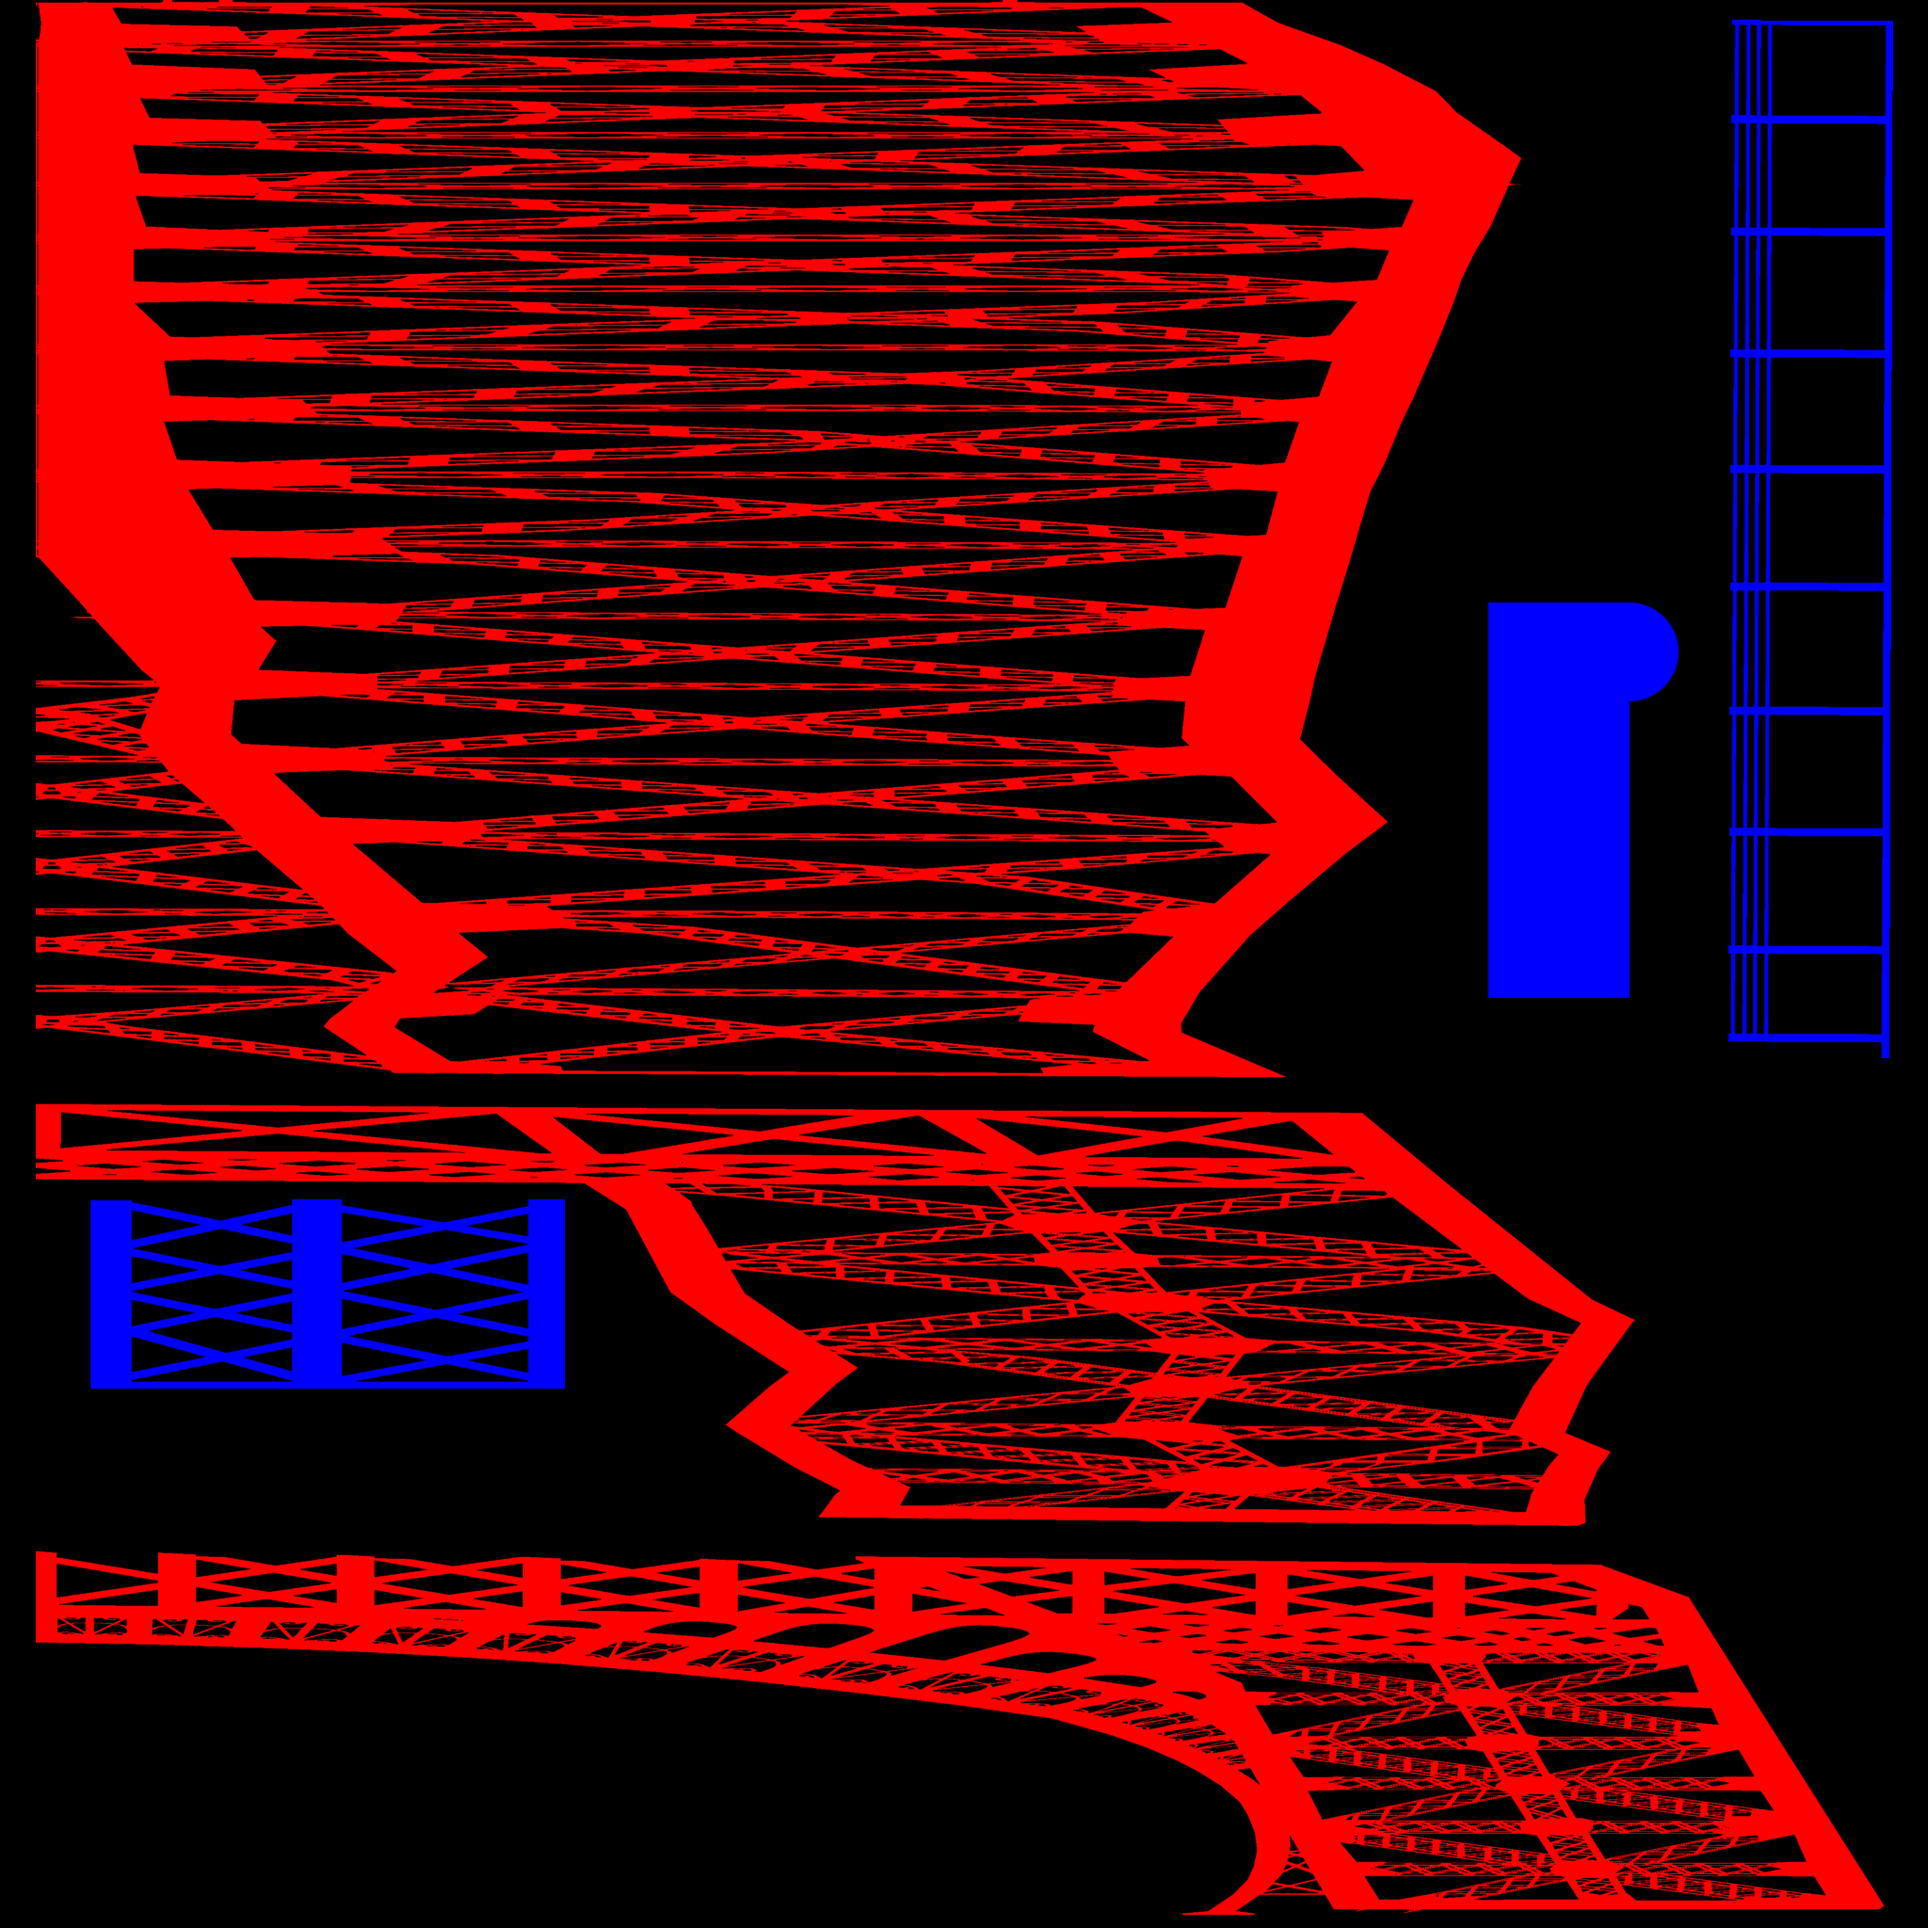
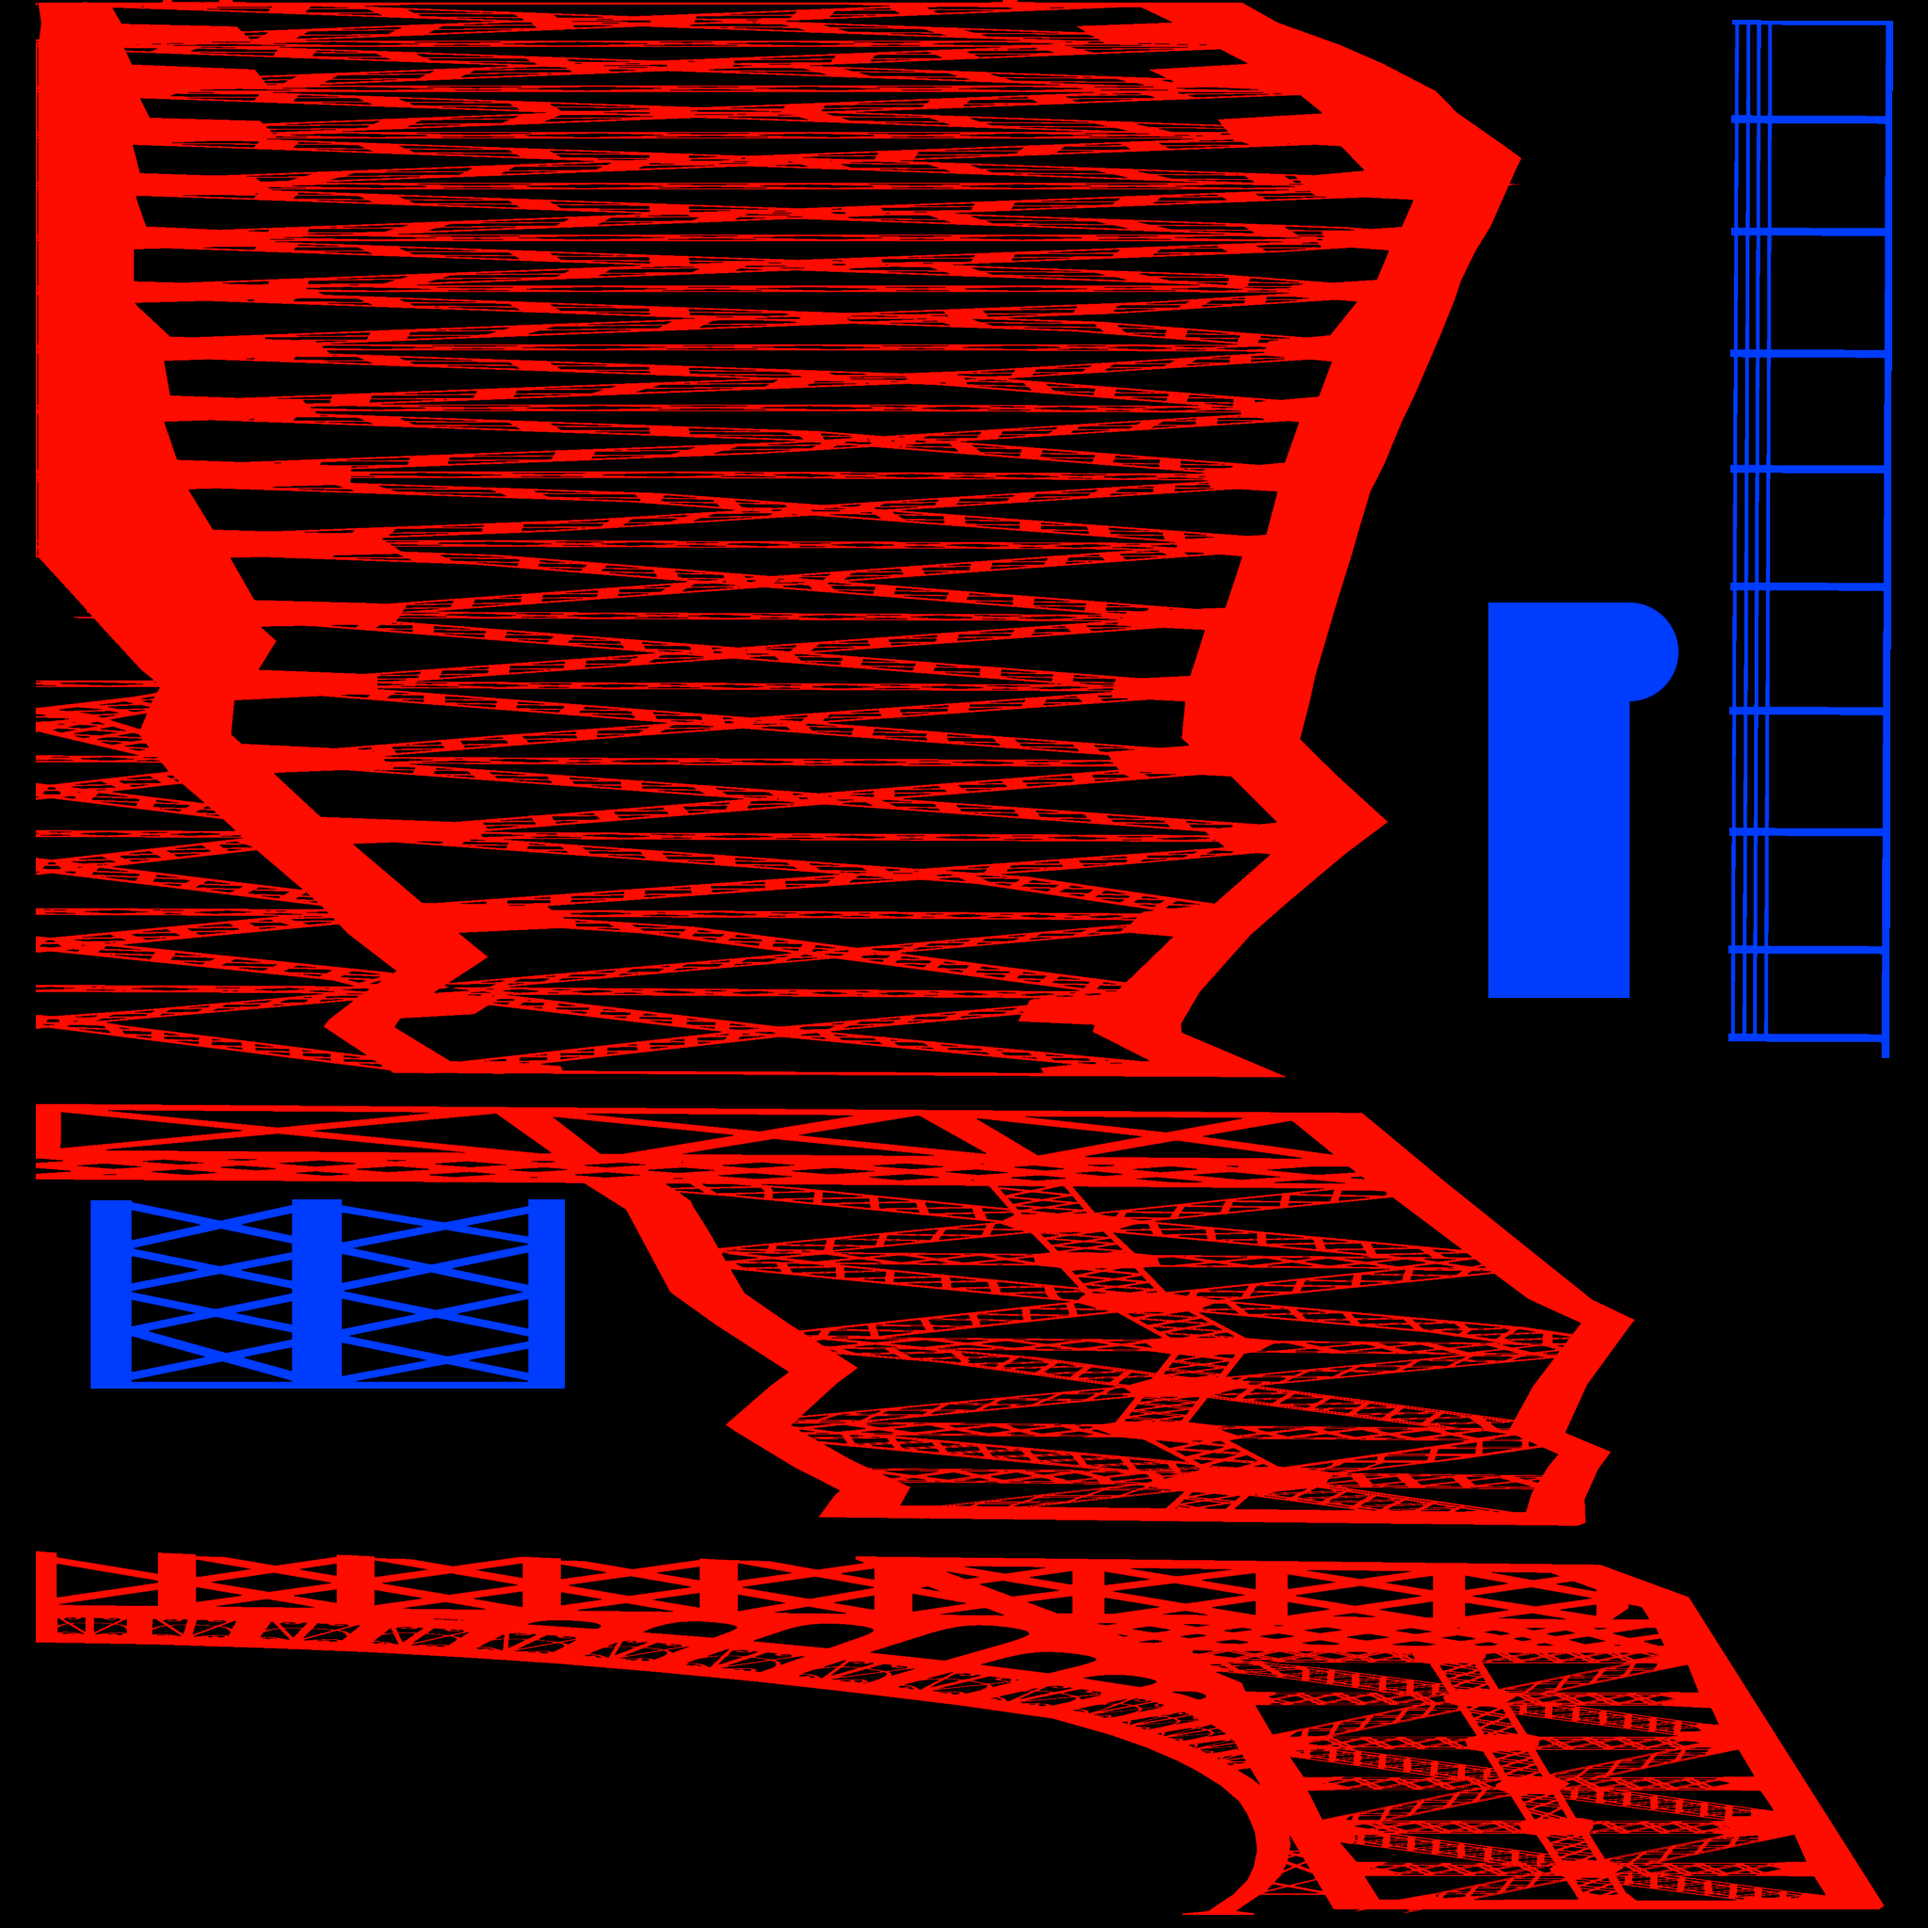
[UNSTABLE] work on image channel (for alphaMap)

Changed region(s): [[0.75, 0.0, 1.0, 0.5625], [0.0312, 0.625, 0.3125, 0.7188]]

diff --git a/objimg.js b/objimg.js
@@ -127,35 +127,35 @@
 
 						for( var materialParameter in type ){
 
-							var parameter = type[materialParameter];
-
 							if( /\.(png|jpg|gif)$/.test(type[materialParameter]) ){
+
+								var map = type[materialParameter];
 
 								toLoad++;
 
-								parameter = new ImageParser(this.basePath + "/" + parameter, type.channel, function(){
+								new ImageParser(this.basePath + "/" + map, type.channel, function( materialIndex, materialType, materialParameter, image ){
 
-									console.info("LOADED MF");
+									loaded++;
 
-								});
+									this.datas.materials[materialIndex][materialType][materialParameter] = image;
 
-								// var image = new Image();
+									if( loaded == toLoad ){
 
-								// image.addEventListener("load", function(){
+										if( this.object3DNeedsUpdate == true ){
 
-								// 	loaded++;
+											this.setObject3D(this.object3DComplete);
 
-								// 	if( loaded == toLoad ){
+										};
 
-								// 		console.info("ALL IMAGE ARE LOADED");
+										if( this.simpleObject3DNeedsUpdate == true ){
 
-								// 	};
+											this.setSimpleObject3D(this.simpleObject3DComplete);
 
-								// }, false);
+										};
 
-								// image.src = this.basePath + "/" + this.datas.materials[materialIndex][type][parameter];
+									};
 
-								// this.datas.materials[materialIndex][type][parameter] = image;
+								}.bind(this, materialIndex, materialType, materialParameter));
 
 							};
 
@@ -165,22 +165,10 @@
 
 				};
 
-				if( this.object3DNeedsUpdate == true ){
+				// var completeEvent = document.createEvent("CustomEvent");
+				// completeEvent.initCustomEvent("complete", true, true, this.datas);
 
-					this.setObject3D(this.object3DComplete);
-
-				};
-
-				if( this.simpleObject3DNeedsUpdate == true ){
-
-					this.setSimpleObject3D(this.simpleObject3DComplete);
-
-				};
-
-				var completeEvent = document.createEvent("CustomEvent");
-				completeEvent.initCustomEvent("complete", true, true, this.datas);
-
-				this.dispatchEvent(completeEvent);
+				// this.dispatchEvent(completeEvent);
 
 			}.bind(this));
 
@@ -503,29 +491,31 @@
 						var opacityMap = null;
 						if( materialDatas.opacity.map != null ){
 
-							opacityMap = new THREE.Texture(materialDatas.opacity.map);
+							opacityMap = new THREE.Texture(materialDatas.opacity.map, THREE.UVMapping);
 							opacityMap.wrapS = opacityMap.wrapT = (materialDatas.opacity.clamp == true) ? THREE.ClampToEdgeWrapping : THREE.RepeatWrapping;
 
 						};
+
+						console.log(opacityMap);
 
 						material = new THREE.MeshPhongMaterial({
 							aoMap: ambientMap,
 							color: new THREE.Color(materialDatas.diffuse.r, materialDatas.diffuse.g, materialDatas.diffuse.b),
 							map: diffuseMap,
-							specularMap: specularMap,
+							specularMap: opacityMap,
 							specular: new THREE.Color(materialDatas.specular.r, materialDatas.specular.g, materialDatas.specular.b),
 							shininess: materialDatas.specular.force,
 							normalMap: normalMap,
 							normalScale: new THREE.Vector2(0.5, 0.5),
 							bumpMap: bumpMap,
 							bumpScale: 1.0,
-							opacity: materialDatas.opacity.value,
-							alphaMap: opacityMap,
-							alphaTest: 0,
-							transparent: ((materialDatas.opacity.value < 1.0 || materialDatas.opacity.map != null) ? true : false),
-							depthTest: true,
-							depthWrite: ((materialDatas.opacity.value < 1.0 || materialDatas.opacity.map != null) ? false : true),
-							combine: THREE.MultiplyOperation,
+							// opacity: materialDatas.opacity.value,
+							// alphaMap: opacityMap,
+							// alphaTest: 0,
+							// transparent: ((materialDatas.opacity.value < 1.0 || materialDatas.opacity.map != null) ? true : false),
+							// depthTest: true,
+							// depthWrite: ((materialDatas.opacity.value < 1.0 || materialDatas.opacity.map != null) ? false : true),
+							// combine: THREE.MultiplyOperation,
 							shading: (materialDatas.smooth == true ? THREE.SmoothShading : THREE.FlatShading),
 							side: materialDatas.shader.side,
 							fog: true
@@ -2603,7 +2593,7 @@
 
 				if( channel == OBJImg.constants.channel.rgb ){
 
-					callback();
+					callback(this.image);
 
 				}
 				else {
@@ -2620,25 +2610,41 @@
 
 					if( channel == OBJImg.constants.channel.r ){
 
-						console.log("only r")
+						for( var pixel = 0, length = imageData.data.length; pixel < length; pixel += 4 ){
+
+							imageData.data[pixel + 1] = imageData.data[pixel];
+							imageData.data[pixel + 2] = imageData.data[pixel];
+
+						};
+
+					}
+					else if( channel == OBJImg.constants.channel.g ){
 
 						for( var pixel = 0, length = imageData.data.length; pixel < length; pixel += 4 ){
 
-							imageData.data[pixel + 1] = imageData[pixel];
-							imageData.data[pixel + 2] = imageData[pixel];
+							imageData.data[pixel] = imageData.data[pixel + 1];
+							imageData.data[pixel + 2] = imageData.data[pixel + 1];
+
+						};
+
+					}
+					else if( channel == OBJImg.constants.channel.b ){
+
+						for( var pixel = 0, length = imageData.data.length; pixel < length; pixel += 4 ){
+
+							imageData.data[pixel] = imageData.data[pixel + 2];
+							imageData.data[pixel + 1] = imageData.data[pixel + 2];
 
 						};
 
 					};
-
-					console.log(imageData.data[0], imageData.data[1], imageData.data[2], imageData.data[3]);
 
 					context.putImageData(imageData, 0, 0);
 
 					this.image = new Image();
 					this.image.src = canvas.toDataURL("image/png", 1.0);
 
-					document.body.appendChild(this.image);
+					callback(this.image);
 
 				};
 
@@ -2646,7 +2652,7 @@
 
 			this.image.src = url;
 
-			return this.image;
+			return this;
 
 		}
 	};
